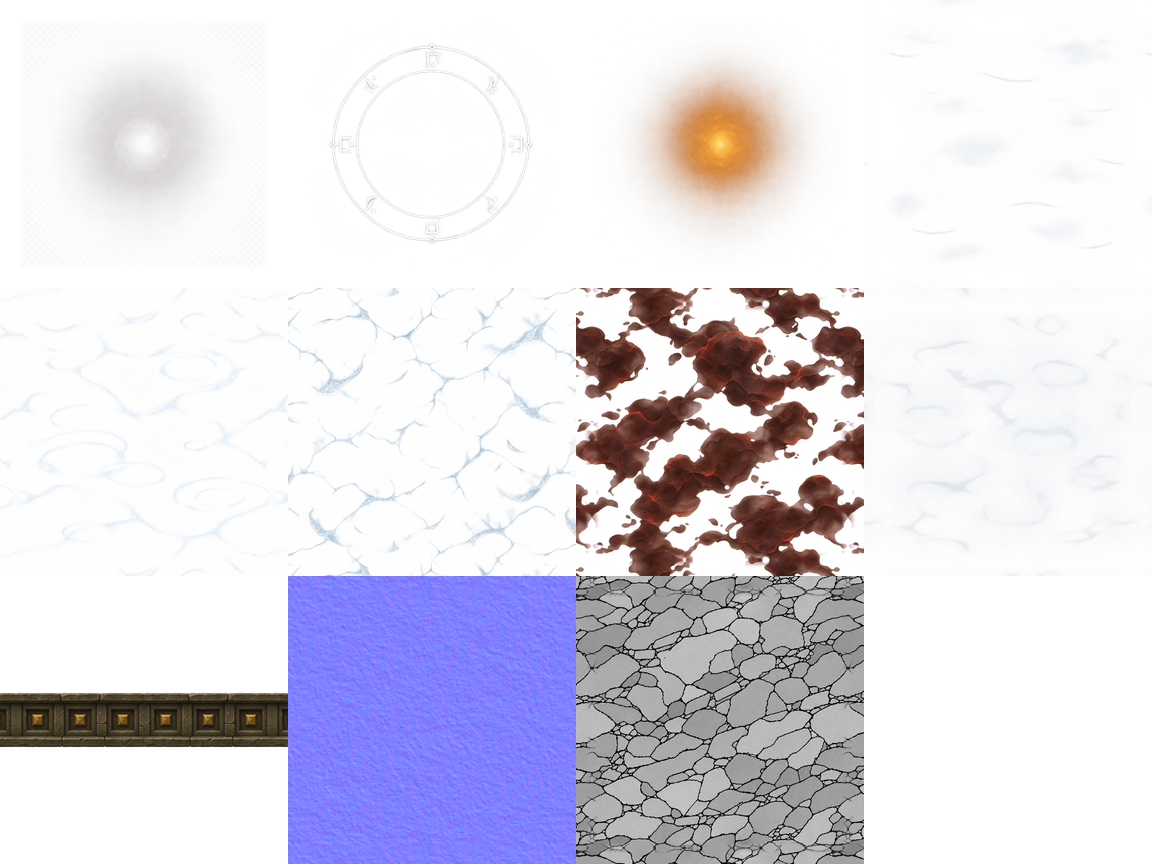
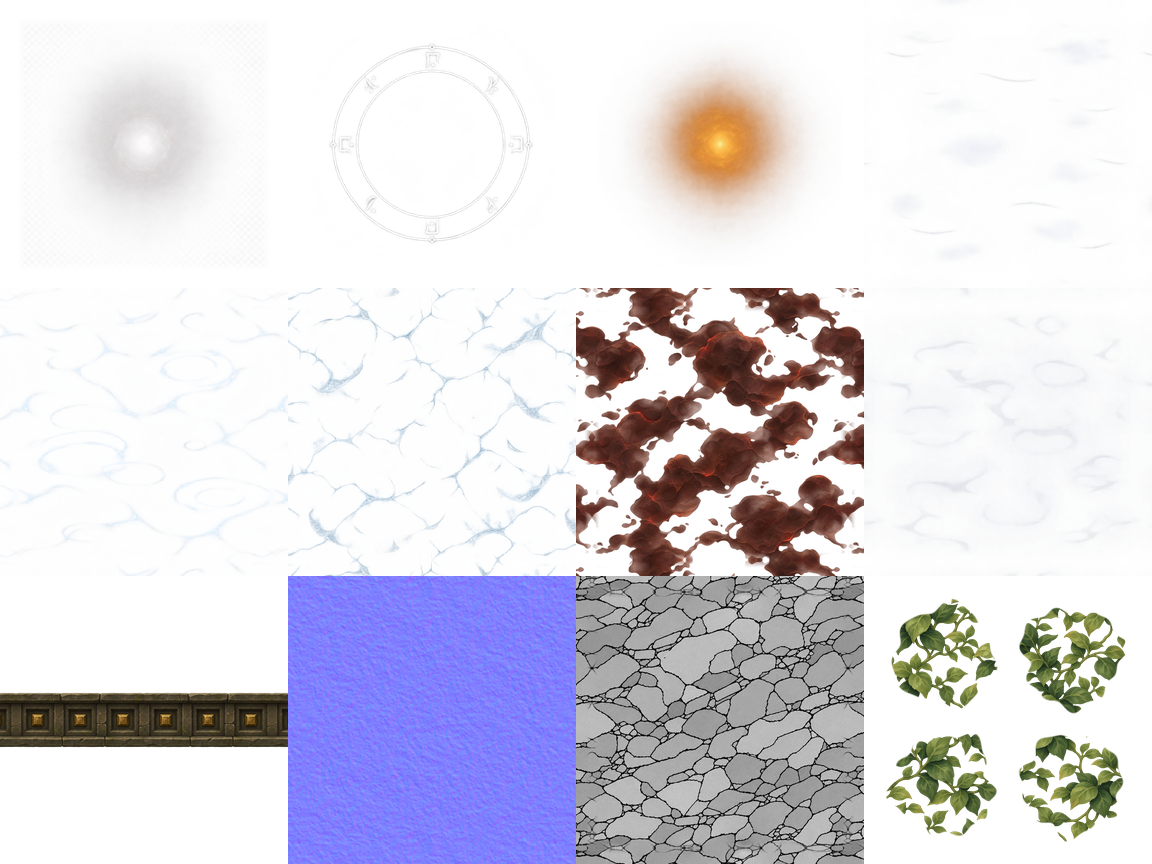
Trees: painted leaf cards in place of solid leaf balls
The saplings' leaf balls are now balls of cut-out foliage cards drawn from a new
painted leaf sheet (four round clumps in one effects tile), one draw call per
room; plain balls stand in until the art loads. Adds a guide for giving other
plants the look.

Claude-Session: https://claude.ai/code/session_01RV2LkTXFCZhmAifUhFqJWb

Changed region(s): [[0.75, 0.6875, 1.0, 0.9688]]

diff --git a/game/envartmap.js b/game/envartmap.js
@@ -1,2 +1,2 @@
 // Generated by tools/build-env-atlas.py: where each dungeon texture sits in its atlas sheet (game/art/environment/atlas/). Rectangles are [x, y, w, h] in pixels from the top left.
-const ENVART_MAP={"tile":256,"gutter":16,"sheets":{"area-hollows":{"file":"area-hollows.webp","size":[1152,864],"tiles":{"floor-0":[16,16,256,256],"floor-1":[304,16,256,256],"floor-2":[592,16,256,256],"wall-0":[880,16,256,256],"wall-1":[16,304,256,256],"wall-2":[304,304,256,256],"theme-overgrown":[592,304,256,256],"theme-fungus":[880,304,256,256],"theme-collapsed":[16,592,256,256],"theme-flooded":[304,592,256,256],"theme-library":[592,592,256,256]}},"area-hollows-n":{"file":"area-hollows-n.webp","size":[864,576],"tiles":{"theme-overgrown":[16,16,256,256],"theme-fungus":[304,16,256,256],"theme-collapsed":[592,16,256,256],"theme-flooded":[16,304,256,256],"theme-library":[304,304,256,256]}},"area-deeps":{"file":"area-deeps.webp","size":[1152,864],"tiles":{"floor-0":[16,16,256,256],"floor-1":[304,16,256,256],"floor-2":[592,16,256,256],"wall-0":[880,16,256,256],"wall-1":[16,304,256,256],"wall-2":[304,304,256,256],"theme-flooded":[592,304,256,256],"theme-crypt":[880,304,256,256],"theme-collapsed":[16,592,256,256],"theme-fungus":[304,592,256,256],"theme-bathhouse":[592,592,256,256],"theme-barracks":[880,592,256,256]}},"area-deeps-n":{"file":"area-deeps-n.webp","size":[864,576],"tiles":{"theme-flooded":[16,16,256,256],"theme-crypt":[304,16,256,256],"theme-collapsed":[592,16,256,256],"theme-fungus":[16,304,256,256],"theme-bathhouse":[304,304,256,256],"theme-barracks":[592,304,256,256]}},"area-vault":{"file":"area-vault.webp","size":[1152,864],"tiles":{"floor-0":[16,16,256,256],"floor-1":[304,16,256,256],"floor-2":[592,16,256,256],"wall-0":[880,16,256,256],"wall-1":[16,304,256,256],"wall-2":[304,304,256,256],"theme-armory":[592,304,256,256],"theme-library":[880,304,256,256],"theme-barracks":[16,592,256,256],"theme-bathhouse":[304,592,256,256],"theme-collapsed":[592,592,256,256]}},"area-vault-n":{"file":"area-vault-n.webp","size":[864,576],"tiles":{"theme-armory":[16,16,256,256],"theme-library":[304,16,256,256],"theme-barracks":[592,16,256,256],"theme-bathhouse":[16,304,256,256],"theme-collapsed":[304,304,256,256]}},"area-rifts":{"file":"area-rifts.webp","size":[1152,864],"tiles":{"floor-0":[16,16,256,256],"floor-1":[304,16,256,256],"floor-2":[592,16,256,256],"wall-0":[880,16,256,256],"wall-1":[16,304,256,256],"wall-2":[304,304,256,256],"theme-forge":[592,304,256,256],"theme-collapsed":[880,304,256,256],"theme-armory":[16,592,256,256],"theme-barracks":[304,592,256,256],"theme-fungus":[592,592,256,256],"rock-overlay":[880,592,256,256]}},"area-rifts-n":{"file":"area-rifts-n.webp","size":[864,576],"tiles":{"theme-forge":[16,16,256,256],"theme-collapsed":[304,16,256,256],"theme-armory":[592,16,256,256],"theme-barracks":[16,304,256,256],"theme-fungus":[304,304,256,256]}},"area-ruins":{"file":"area-ruins.webp","size":[1152,864],"tiles":{"floor-0":[16,16,256,256],"floor-1":[304,16,256,256],"floor-2":[592,16,256,256],"wall-0":[880,16,256,256],"wall-1":[16,304,256,256],"wall-2":[304,304,256,256],"theme-library":[592,304,256,256],"theme-bathhouse":[880,304,256,256],"theme-overgrown":[16,592,256,256],"theme-crypt":[304,592,256,256]}},"area-ruins-n":{"file":"area-ruins-n.webp","size":[864,576],"tiles":{"theme-library":[16,16,256,256],"theme-bathhouse":[304,16,256,256],"theme-overgrown":[592,16,256,256],"theme-crypt":[16,304,256,256]}},"area-abyss":{"file":"area-abyss.webp","size":[1152,864],"tiles":{"floor-0":[16,16,256,256],"floor-1":[304,16,256,256],"floor-2":[592,16,256,256],"wall-0":[880,16,256,256],"wall-1":[16,304,256,256],"wall-2":[304,304,256,256],"theme-crypt":[592,304,256,256],"theme-collapsed":[880,304,256,256],"theme-library":[16,592,256,256],"theme-forge":[304,592,256,256],"theme-fungus":[592,592,256,256]}},"area-abyss-n":{"file":"area-abyss-n.webp","size":[864,576],"tiles":{"theme-crypt":[16,16,256,256],"theme-collapsed":[304,16,256,256],"theme-library":[592,16,256,256],"theme-forge":[16,304,256,256],"theme-fungus":[304,304,256,256]}},"effects":{"file":"effects.webp","size":[1152,864],"tiles":{"glow":[16,16,256,256],"rune":[304,16,256,256],"lantern":[592,16,256,256],"ripples":[880,16,256,256],"pool-water":[16,304,256,256],"pool-ice":[304,304,256,256],"pool-lava":[592,304,256,256],"pool-black":[880,304,256,256],"trim-ruins":[16,592,256,256],"detail-normal":[304,592,256,256],"cell-noise":[592,592,256,256]}}},"themeArea":{"hollows":["overgrown","fungus","collapsed","flooded","library"],"deeps":["flooded","crypt","collapsed","fungus","bathhouse","barracks"],"vault":["armory","library","barracks","bathhouse","collapsed"],"rifts":["forge","collapsed","armory","barracks","fungus"],"ruins":["library","bathhouse","overgrown","crypt"],"abyss":["crypt","collapsed","library","forge","fungus"]}};
+const ENVART_MAP={"tile":256,"gutter":16,"sheets":{"area-hollows":{"file":"area-hollows.webp","size":[1152,864],"tiles":{"floor-0":[16,16,256,256],"floor-1":[304,16,256,256],"floor-2":[592,16,256,256],"wall-0":[880,16,256,256],"wall-1":[16,304,256,256],"wall-2":[304,304,256,256],"theme-overgrown":[592,304,256,256],"theme-fungus":[880,304,256,256],"theme-collapsed":[16,592,256,256],"theme-flooded":[304,592,256,256],"theme-library":[592,592,256,256]}},"area-hollows-n":{"file":"area-hollows-n.webp","size":[864,576],"tiles":{"theme-overgrown":[16,16,256,256],"theme-fungus":[304,16,256,256],"theme-collapsed":[592,16,256,256],"theme-flooded":[16,304,256,256],"theme-library":[304,304,256,256]}},"area-deeps":{"file":"area-deeps.webp","size":[1152,864],"tiles":{"floor-0":[16,16,256,256],"floor-1":[304,16,256,256],"floor-2":[592,16,256,256],"wall-0":[880,16,256,256],"wall-1":[16,304,256,256],"wall-2":[304,304,256,256],"theme-flooded":[592,304,256,256],"theme-crypt":[880,304,256,256],"theme-collapsed":[16,592,256,256],"theme-fungus":[304,592,256,256],"theme-bathhouse":[592,592,256,256],"theme-barracks":[880,592,256,256]}},"area-deeps-n":{"file":"area-deeps-n.webp","size":[864,576],"tiles":{"theme-flooded":[16,16,256,256],"theme-crypt":[304,16,256,256],"theme-collapsed":[592,16,256,256],"theme-fungus":[16,304,256,256],"theme-bathhouse":[304,304,256,256],"theme-barracks":[592,304,256,256]}},"area-vault":{"file":"area-vault.webp","size":[1152,864],"tiles":{"floor-0":[16,16,256,256],"floor-1":[304,16,256,256],"floor-2":[592,16,256,256],"wall-0":[880,16,256,256],"wall-1":[16,304,256,256],"wall-2":[304,304,256,256],"theme-armory":[592,304,256,256],"theme-library":[880,304,256,256],"theme-barracks":[16,592,256,256],"theme-bathhouse":[304,592,256,256],"theme-collapsed":[592,592,256,256]}},"area-vault-n":{"file":"area-vault-n.webp","size":[864,576],"tiles":{"theme-armory":[16,16,256,256],"theme-library":[304,16,256,256],"theme-barracks":[592,16,256,256],"theme-bathhouse":[16,304,256,256],"theme-collapsed":[304,304,256,256]}},"area-rifts":{"file":"area-rifts.webp","size":[1152,864],"tiles":{"floor-0":[16,16,256,256],"floor-1":[304,16,256,256],"floor-2":[592,16,256,256],"wall-0":[880,16,256,256],"wall-1":[16,304,256,256],"wall-2":[304,304,256,256],"theme-forge":[592,304,256,256],"theme-collapsed":[880,304,256,256],"theme-armory":[16,592,256,256],"theme-barracks":[304,592,256,256],"theme-fungus":[592,592,256,256],"rock-overlay":[880,592,256,256]}},"area-rifts-n":{"file":"area-rifts-n.webp","size":[864,576],"tiles":{"theme-forge":[16,16,256,256],"theme-collapsed":[304,16,256,256],"theme-armory":[592,16,256,256],"theme-barracks":[16,304,256,256],"theme-fungus":[304,304,256,256]}},"area-ruins":{"file":"area-ruins.webp","size":[1152,864],"tiles":{"floor-0":[16,16,256,256],"floor-1":[304,16,256,256],"floor-2":[592,16,256,256],"wall-0":[880,16,256,256],"wall-1":[16,304,256,256],"wall-2":[304,304,256,256],"theme-library":[592,304,256,256],"theme-bathhouse":[880,304,256,256],"theme-overgrown":[16,592,256,256],"theme-crypt":[304,592,256,256]}},"area-ruins-n":{"file":"area-ruins-n.webp","size":[864,576],"tiles":{"theme-library":[16,16,256,256],"theme-bathhouse":[304,16,256,256],"theme-overgrown":[592,16,256,256],"theme-crypt":[16,304,256,256]}},"area-abyss":{"file":"area-abyss.webp","size":[1152,864],"tiles":{"floor-0":[16,16,256,256],"floor-1":[304,16,256,256],"floor-2":[592,16,256,256],"wall-0":[880,16,256,256],"wall-1":[16,304,256,256],"wall-2":[304,304,256,256],"theme-crypt":[592,304,256,256],"theme-collapsed":[880,304,256,256],"theme-library":[16,592,256,256],"theme-forge":[304,592,256,256],"theme-fungus":[592,592,256,256]}},"area-abyss-n":{"file":"area-abyss-n.webp","size":[864,576],"tiles":{"theme-crypt":[16,16,256,256],"theme-collapsed":[304,16,256,256],"theme-library":[592,16,256,256],"theme-forge":[16,304,256,256],"theme-fungus":[304,304,256,256]}},"effects":{"file":"effects.webp","size":[1152,864],"tiles":{"glow":[16,16,256,256],"rune":[304,16,256,256],"lantern":[592,16,256,256],"ripples":[880,16,256,256],"pool-water":[16,304,256,256],"pool-ice":[304,304,256,256],"pool-lava":[592,304,256,256],"pool-black":[880,304,256,256],"trim-ruins":[16,592,256,256],"detail-normal":[304,592,256,256],"cell-noise":[592,592,256,256],"leaf-clumps":[880,592,256,256]}}},"themeArea":{"hollows":["overgrown","fungus","collapsed","flooded","library"],"deeps":["flooded","crypt","collapsed","fungus","bathhouse","barracks"],"vault":["armory","library","barracks","bathhouse","collapsed"],"rifts":["forge","collapsed","armory","barracks","fungus"],"ruins":["library","bathhouse","overgrown","crypt"],"abyss":["crypt","collapsed","library","forge","fungus"]}};

diff --git a/game/dungeongen.js b/game/dungeongen.js
@@ -344,6 +344,37 @@ function xLandmarks(grp,A,S,seed){ const R=caveRng(seed+509), tone=v=>new THREE.
     const g=new THREE.Group(); if(M.size()) g.add(M.build(xPhong({vertexColors:true}))); if(L.size()) g.add(L.build(new THREE.MeshBasicMaterial({vertexColors:true})));
     g.visible=false; grp.add(g); EX.decor.push({mesh:g,cells:[...seen],ph:R()*6}); } }
 
+/* Foliage cards: a ball of leaves drawn as a dozen small cut-out cards of the painted leaf clumps (envart.js 'leaf-clumps',
+   four clumps in one tile), set round the ball at different depths and facing out, so you see leaves and the gaps between
+   them, not a solid ball. Their normals point out from the ball's centre, so the clump is lit as one round mass, and the
+   cards deep inside are darker. All the cards of a room go into one mesh with one material: one draw call. */
+const XLEAF={cards:12};
+function xLeafMerger(){ const P=[], N=[], U=[], C=[];
+  return { P, N, U, C, size:()=>P.length,
+    build(){ const img=envArtFx('leaf-clumps'), g=new THREE.BufferGeometry(); g.setAttribute('position',new THREE.Float32BufferAttribute(P,3)); g.setAttribute('normal',new THREE.Float32BufferAttribute(N,3));
+      g.setAttribute('uv',new THREE.Float32BufferAttribute(U,2)); g.setAttribute('color',new THREE.Float32BufferAttribute(C,3));
+      const m=xDitherMat(xPhong({map:xLeafTex(img),vertexColors:true,alphaTest:.5,side:THREE.DoubleSide})); m.userData.noProj=1; return new THREE.Mesh(g,m); } }; }
+let XLEAF_TEX=null;
+function xLeafTex(img){ if(XLEAF_TEX&&XLEAF_TEX.image===img) return XLEAF_TEX; const t=new THREE.CanvasTexture(img); t.minFilter=THREE.LinearMipmapLinearFilter; t.anisotropy=4; return XLEAF_TEX=t; }
+// a ball of leaf cards round (cx,cy,cz), radius r, tinted by col; false if the leaf art is not in yet
+function xLeafCards(F,col,cx,cy,cz,r,R){ if(!F||!envArtFx('leaf-clumps')) return false;
+  const tint=new THREE.Color(col), mx=Math.max(tint.r,tint.g,tint.b,.01); tint.setRGB(tint.r/mx,tint.g/mx,tint.b/mx).lerp(new THREE.Color(1,1,1),.45);   // the area's leaf hue, kept bright
+  const n=XLEAF.cards, v=new THREE.Vector3(), d=new THREE.Vector3(), t1=new THREE.Vector3(), t2=new THREE.Vector3(), up=new THREE.Vector3(0,1,0), p=new THREE.Vector3(), q=new THREE.Vector3();
+  for(let k=0;k<n;k++){
+    // spread round the ball (a golden spiral, shaken), a little flattened, more on top than below
+    const yv=1-2*(k+.5)/n*.85, rr=Math.sqrt(Math.max(0,1-yv*yv)), a=k*2.39996+R()*.6;
+    d.set(Math.cos(a)*rr,yv*.8,Math.sin(a)*rr).normalize();
+    const depth=.25+R()*.6, s=r*(1.05+R()*.5), roll=R()*6.3;
+    p.set(cx,cy,cz).addScaledVector(d,r*depth);
+    t1.crossVectors(Math.abs(d.y)>.95?new THREE.Vector3(1,0,0):up,d).normalize(); t2.crossVectors(d,t1);
+    const cr=Math.cos(roll), sr=Math.sin(roll); q.copy(t1).multiplyScalar(cr).addScaledVector(t2,sr); t2.multiplyScalar(cr).addScaledVector(t1,-sr); t1.copy(q);
+    const qd=R()*4|0, u0=(qd&1)*.5, v0=(qd>>1)*.5, fl=R()<.5;
+    const shade=.5+.5*depth+.12*d.y, c=tint.clone().multiplyScalar(Math.min(1.15,shade));
+    const corner=(su,sv)=>{ q.copy(p).addScaledVector(t1,su*s/2).addScaledVector(t2,sv*s/2); F.P.push(q.x,q.y,q.z);
+      v.subVectors(q,new THREE.Vector3(cx,cy,cz)).normalize().lerp(d,.4).normalize(); F.N.push(v.x,v.y,v.z);
+      F.U.push(u0+((fl?-su:su)*.5+.5)*.5, v0+(sv*.5+.5)*.5); F.C.push(c.r,c.g,c.b); };
+    for(const [su,sv] of [[-1,-1],[1,-1],[1,1],[-1,-1],[1,1],[-1,1]]) corner(su,sv); }
+  return true; }
 /* The clutter, drawn (x2Clutter): one merged mesh per room (or gallery piece), shown once any of its cells is seen.
    Ruins are cut from the area's own stone: light ones from its upper tones with dull gold trim, dark ones from its lower
    tones with the area's glow in their cracks. A fire pillar's
@@ -353,7 +384,7 @@ function xClutter(grp,A,S,seed){ EX.fireL=new Map(); if(!EX.marks) return; const
     // the area's own stone: light ruins from its upper tones, dark ones from its lower, so they sit with the walls and floor
     const ST=tone(D?.3:.56), SH=tone(D?.18:.42), LT=tone(D?.42:.68), TRIM=D?glow.clone().multiplyScalar(.55):new THREE.Color('#b08a44').lerp(tone(.5),.45);
     const ROCK=tone(.42), ROCK2=tone(.28), ROCK3=tone(.58), SOIL=new THREE.Color('#2b2117'), LEAF=new THREE.Color(S.moss||'#4f7a3a'), LEAF2=LEAF.clone().lerp(new THREE.Color('#1e3a1a'),.45), FLOW=[0xd9465a,0xf2c94c,0xb48cff,0xf0f0e0];
-    const M=xMerger(), L=xMerger(), seen=new Set();
+    const M=xMerger(), L=xMerger(), F=xLeafMerger(), seen=new Set();
     for(const it of mk.items){ const R=caveRng(it.sd*7+seed), cs=it.cells, mx=cs.reduce((a,c)=>a+xcx(c),0)/cs.length, my=cs.reduce((a,c)=>a+xcy(c),0)/cs.length, x=(mx+.5)*XCS, z=(my+.5)*XCS;
       for(const c of cs){ seen.add(c); for(const n of [c-1,c+1,c-XN,c+XN]) seen.add(n); }
       const B=(col,bx,by,bz,sx,sy,sz,ry,to)=>(to||M).add(XG.box,col,bx,by,bz,0,ry||0,0,sx,sy,sz), C=(col,bx,by,bz,r,h,to)=>(to||M).add(XG.cyl,col,bx,by,bz,0,0,0,r*2,h,r*2);
@@ -385,11 +416,12 @@ function xClutter(grp,A,S,seed){ EX.fireL=new Map(); if(!EX.marks) return; const
         for(let k=0;k<n;k++){ const sz=(big?2.2:1.5)*(k?.55+R()*.35:1); rock(k%2?ROCK2:ROCK,x+(R()-.5)*(big?2:.8),sz*.32,z+(R()-.5)*(big?2:.8),sz); }
         if(R()<.5) M.add(XG.ball,LEAF2,x+(R()-.5),.15,z+(R()-.5),0,0,0,.9,.15,.7); }   // moss at its foot
       else if(it.k==='rubble'){ for(let k=0;k<6;k++) rock(R()<.5?ROCK:ROCK3,x+(R()-.5)*1.6,.06,z+(R()-.5)*1.6,.18+R()*.25); }
-      else xClutterThemed(it,x,z,R,B,C,rock,M,L,grp,{ST,SH,LT,TRIM,ROCK,ROCK2,SOIL,LEAF,LEAF2,FLOW,D,glow,along,len}); }
+      else xClutterThemed(it,x,z,R,B,C,rock,M,L,grp,{ST,SH,LT,TRIM,ROCK,ROCK2,SOIL,LEAF,LEAF2,FLOW,D,glow,along,len,F}); }
     const g=new THREE.Group(); if(M.size()) g.add(M.build(xDitherMat(xPhong({vertexColors:true})))); if(L.size()) g.add(L.build(new THREE.MeshBasicMaterial({vertexColors:true})));
+    if(F.size()) g.add(F.build());
     g.visible=false; grp.add(g); EX.decor.push({mesh:g,cells:[...seen],ph:0}); } }
 // the themed rooms' pieces (x2Themes): drawn from boxes, cylinders, cones and balls like the rest of the clutter
-function xClutterThemed(it,x,z,R,B,C,rock,M,L,grp,P){ const {ST,SH,LT,TRIM,ROCK,ROCK2,SOIL,LEAF,LEAF2,FLOW,D,glow,along,len}=P, cs=it.cells;
+function xClutterThemed(it,x,z,R,B,C,rock,M,L,grp,P){ const {ST,SH,LT,TRIM,ROCK,ROCK2,SOIL,LEAF,LEAF2,FLOW,D,glow,along,len,F}=P, cs=it.cells;
   const col=h=>new THREE.Color(h), WOOD=col('#6e4a2a'), WOOD2=col('#4a3018'), IRON=col('#2e2c2a'), IRON2=col('#55524e'), BONE=col('#d8d0b8'), WATER=col('#1f4f5e'), WATER2=col('#3f8c9a'), CLOTH=[col('#7a2a24'),col('#2a4a6a'),col('#3a5a2a'),col('#5a2a5a')];
   const ry=it.v?Math.PI/2:0, lx=it.v?XCS*.7:len-.35, lz=it.v?len-.35:XCS*.7;   // a two-cell piece's footprint, along its cells
   const A=(u,v)=>[x+along[0]*u+(it.v?v:0)*1, z+along[1]*u+(it.v?0:v)];      // u along the piece, v across it
@@ -402,7 +434,8 @@ function xClutterThemed(it,x,z,R,B,C,rock,M,L,grp,P){ const {ST,SH,LT,TRIM,ROCK,
     case 'cratestack': { const s1=.95; B(col('#8a6034'),x,s1/2,z,s1,s1,s1,R()*.3); B(WOOD2,x,s1/2,z,s1*1.03,.1,s1*1.03);
       B(col('#8a6034'),x+(R()-.5)*.2,s1+.36,z+(R()-.5)*.2,.7,.7,.7,R()*.8); if(R()<.6){ M.add(XG.cyl,WOOD,x+.75,.42,z+.3,0,0,0,.6,.84,.6); M.add(XG.cyl,IRON,x+.75,.18,z+.3,0,0,0,.62,.06,.62); } break; }
     case 'sapling': { B(SOIL,x,.06,z,1.2,.12,1.2); M.add(XG.cyl,col('#4a3420'),x,1.1,z,0,0,(R()-.5)*.15,.22,2.2,.22);
-      for(let k=0;k<7;k++){ const a=R()*6.3, d=R()*.7, s2=.7+R()*.5; M.add(XG.ball,R()<.5?LEAF:LEAF2,x+Math.cos(a)*d,2.1+R()*.8,z+Math.sin(a)*d,0,R()*3,0,s2,s2*.8,s2); }
+      for(let k=0;k<7;k++){ const a=R()*6.3, d=R()*.7, s2=.7+R()*.5, lc=R()<.5?LEAF:LEAF2, bx=x+Math.cos(a)*d, by=2.1+R()*.8, bz=z+Math.sin(a)*d;
+        if(!xLeafCards(F,lc,bx,by,bz,s2*.62,R)) M.add(XG.ball,lc,bx,by,bz,0,R()*3,0,s2,s2*.8,s2); }   // painted leaf cards (or, before the art is in, a plain ball)
       for(let k=0;k<3;k++){ const a=R()*6.3; M.add(XG.cyl,col('#4a3420'),x+Math.cos(a)*.45,.08,z+Math.sin(a)*.45,Math.PI/2,a,0,.08,.7,.08); } break; }
     case 'urnbig': { const c=R()<.5?col('#9a5a34'):col('#7a6a5a'); B(SH,x,.12,z,1.1,.24,1.1); M.add(XG.ball,c,x,.85,z,0,0,0,1.05,1.25,1.05); M.add(XG.cyl,c,x,1.55,z,0,0,0,.45,.3,.45);
       M.add(XG.cyl,c.clone().multiplyScalar(.7),x,1.72,z,0,0,0,.6,.08,.6); if(D) B(TRIM,x,.9,z,1.08,.06,1.08,0,L); break; }

diff --git a/game/envart.js b/game/envart.js
@@ -50,7 +50,7 @@ function envArtTheme(th,A){ const id=A&&A.id; return dress(tile('area-'+id,'them
 function envArtOverlay(A){ return A&&A.id==='rifts'?tile('area-rifts','rock-overlay'):null; }
 // an effect, cut out of the effects sheet into a canvas of its own (256 x 256), or null
 const CUT=new Map();
-function envArtFx(name){ if(CUT.has(name)) return CUT.get(name); if(!known()||!ready('effects')){ if(known()&&STATE.get('effects')!=='fail') load('effects'); return null; }
+function envArtFx(name){ if(CUT.has(name)) return CUT.get(name); if(!known()||!ready('effects')){ if(known()&&STATE.get('effects')!=='fail'){ load('effects'); missing=true; } return null; }
   const S=ENVART_MAP.sheets.effects, t=S.tiles[name]; if(!t) return null; const c=document.createElement('canvas'); c.width=t[2]; c.height=t[3];
   c.getContext('2d').drawImage(IMG.get('effects'),t[0],t[1],t[2],t[3],0,0,t[2],t[3]); CUT.set(name,c); return c; }
 // one GPU texture per sheet, shared by every material that samples it: clamped (the shader wraps inside the tile),

diff --git a/tools/build-env-atlas.py b/tools/build-env-atlas.py
@@ -12,7 +12,7 @@ look.js xAtlasShader):
                            Ember Rifts, the medium-rock overlay
   atlas/area-<id>-n.webp   the matching theme floors' normal maps (linear data, lossless)
   atlas/effects.webp       the small effect textures (glows, rune ring, ripples, pool surfaces, trim, detail normal,
-                           cell noise); the game cuts these back out, as they scroll, tile or draw as sprites
+                           cell noise, the trees' leaf clumps); the game cuts these back out, as they scroll, tile or draw as sprites
 
 Every tile sits in a cell with a 16-pixel gutter: repeating textures fill it with their own wrapped edge (so the
 filtering and the first four mip levels at a tile's edge read the tile itself, not its neighbour), sprites with
@@ -59,6 +59,39 @@ EFFECTS = {
     "detail-normal": ("shared-effects/detail-normal.png", "wrap"),
     "cell-noise": ("shared-detail/deeps-rock-cell-noise.png", "wrap"),
 }
+# the leaves (shared-foliage/leaves.png, a tiling sheet of painted leaves with cut-out gaps): four round clumps cut from
+# it, two by two in one tile, for the trees' foliage cards (dungeongen.js xLeafCards)
+LEAVES = "shared-foliage/leaves.png"
+
+
+def leaf_clumps():
+    """Four 128 x 128 clumps in one 256 tile: each a 512 crop of the leaves, its edge eaten by a ragged round mask (so a
+    card never shows a straight edge), its alpha made crisp for alpha testing, and its colour carried out under the
+    clear pixels (the filtering and mip levels would otherwise pull the painting's stray fringe colours into the edges)."""
+    src = np.asarray(Image.open(SRC / LEAVES).convert("RGBA")).astype(np.float32) / 255
+    rng = np.random.default_rng(7)
+    out = np.zeros((TILE, TILE, 4), np.float32)
+    h = TILE // 2
+    for q, (ox, oy) in enumerate([(40, 60), (470, 90), (90, 480), (500, 470)]):
+        a = src[oy:oy + 512, ox:ox + 512].copy()
+        yy, xx = np.mgrid[0:512, 0:512] / 511 * 2 - 1
+        ang = np.arctan2(yy, xx)
+        rag = .82 + sum(rng.uniform(.02, .06) * np.sin(k * ang + rng.uniform(0, 6.3)) for k in (3, 5, 7, 11))
+        a[..., 3] *= np.clip((rag - np.hypot(xx, yy)) / .08, 0, 1)
+        a[..., 3] = np.clip((a[..., 3] - .35) / .3, 0, 1)
+        im = Image.fromarray((a * 255).astype(np.uint8), "RGBA")
+        pm = np.asarray(im.resize((h, h), Image.LANCZOS, reducing_gap=None)).astype(np.float32) / 255
+        out[(q // 2) * h:(q // 2 + 1) * h, (q % 2) * h:(q % 2 + 1) * h] = pm
+    # colour under the clear pixels: the mean of the leaf colour round about
+    col, al = out[..., :3] * out[..., 3:], out[..., 3:]
+    def blur(x, r=6, n=3):   # a box blur three times over (near enough a gaussian), wrapping
+        for _ in range(n):
+            for ax in (0, 1):
+                x = sum(np.roll(x, d, ax) for d in range(-r, r + 1)) / (2 * r + 1)
+        return x
+    fill = blur(col) / (blur(al) + 1e-4)
+    out[..., :3] = np.where(al > .5, out[..., :3], fill)
+    return Image.fromarray((np.clip(out, 0, 1) * 255).astype(np.uint8), "RGBA")
 
 
 def tile(path, mode="RGBA"):
@@ -103,6 +136,7 @@ def main():
         normals = [("theme-" + th, tile(f"theme-normals/{THEME_FILE[th]}-normal.png", "RGB"), True) for th in THEME_AREA[a]]
         sheets[f"area-{a}-n"] = build(f"area-{a}-n.webp", normals, "RGB", True, cols=3)
     fx = [(k, tile(p), m == "wrap") for k, (p, m) in EFFECTS.items()]
+    fx.append(("leaf-clumps", leaf_clumps(), False))
     sheets["effects"] = build("effects.webp", fx, "RGBA", True)
     meta = {"tile": TILE, "gutter": GUT, "sheets": sheets, "themeArea": THEME_AREA}
     MAP_JS.write_text("// Generated by tools/build-env-atlas.py: where each dungeon texture sits in its atlas sheet "

diff --git a/docs/art-production/foliage-cards.md b/docs/art-production/foliage-cards.md
@@ -1,0 +1,75 @@
+# Foliage cards: a guide for giving more plants the painted-leaf look
+
+This guide is for Claude, or anyone else, extending the leaf-card look from the trees to the rest of the dungeon's plants.
+
+## What exists now
+
+The **saplings** use the look. They are the trees in Overgrown rooms (`dungeongen.js`, `xClutterThemed`, case `'sapling'`). Each of a sapling's seven leaf balls is drawn as a ball of foliage cards instead of a solid sphere.
+
+- **The art.** `game/art/environment/painterly-512/shared-foliage/leaves.png` is a tiling sheet of painted leaves with cut-out gaps. `tools/build-env-atlas.py` (`leaf_clumps()`) cuts four round, ragged-edged clumps from it, two by two, into one 256 px tile, `leaf-clumps`, in `atlas/effects.webp`. The build also:
+  - makes the alpha crisp for alpha testing;
+  - carries the leaf colour out under the clear pixels, so filtering and mips don't pull in the painting's bright fringe colours.
+- **The cards.** `xLeafCards(F, colour, cx, cy, cz, r, R)` adds `XLEAF.cards` (12) cards round a ball:
+  - Each card is a quad holding one of the four clumps, chosen at random, sometimes mirrored, with a random roll.
+  - The cards sit on a golden spiral at 25–85% of the radius, facing out.
+  - Their normals point out from the ball's centre and lean toward the card's own facing, so the clump is lit as one round mass.
+  - Cards deeper in, and on the underside, are darker.
+  - The colour is the area's leaf colour, normalised to full brightness and mixed 45% toward white, then multiplied over the painted green.
+- **One draw call.** `xLeafMerger()` (F) collects every card of a room's clutter. `build()` makes one mesh with one material: `xDitherMat(xPhong({map, vertexColors, alphaTest:.5, side:DoubleSide}))`. The material has `userData.noProj=1`, so `surface.js` doesn't lay its pixel-art material atlas over it. A whole room's trees are a single draw call.
+- **Fallback.** `xLeafCards` returns `false` while the effects sheet is still loading, and the caller then draws the old plain ball. `envArtFx` marks the build as missing art, so the scene is built again once the sheet arrives (`envArtArrived`).
+
+## Recipe: giving another plant the look
+
+1. **Find where it's drawn.** Almost all plants are `M.add(XG.ball | XG.cone, LEAF or LEAF2, …)` calls in `dungeongen.js`. Search for `LEAF`, `LEAF2`, `XG.ball` and `XG.cone`. The candidates:
+
+   | Piece | Where | Today | Suggested treatment |
+   |---|---|---|---|
+   | Planter shrubs | `xClutter`, `it.k==='planter'` | 10–16 balls and cones | Leaf balls: `xLeafCards` with `r ≈ s2*.6`. Keep the flowers as balls. |
+   | Boulder moss | `xClutter`, boulder `R()<.5` | Flat ball at the foot | Ground cover (below). |
+   | Reeds | `xClutterThemed`, `'reeds'` | Thin cones | Leave as cones, or make crossed upright cards with a separate reed tile. Don't use the leaf clumps. |
+   | Roots | `xClutterThemed`, `'roots'` | Cylinders and a flat ball | Ground cover for the flat ball only. |
+   | Wall vines | `explore.js` (search `vine`) | Hanging strands | Hanging cards (below). These need a vine strip tile, not round clumps. |
+
+2. **Make sure the room's merger F reaches the code.** In `xClutter` it's a local. In `xClutterThemed` it's in `P` (`P.F`). Code elsewhere (furniture in `explore.js`, `nature.js`) needs its own `xLeafMerger()`, built and added to the same group that holds that code's `M` mesh, so it shows and hides with it.
+
+3. **Replace the ball and keep the fallback:**
+   ```js
+   if(!xLeafCards(F,lc,bx,by,bz,radius,R)) M.add(XG.ball,lc,bx,by,bz,0,R()*3,0,sx,sy,sz);
+   ```
+   Pass the ball's radius, which is about half its scale. A squashed ball (sy < sx) looks fine as a round card ball with a slightly smaller radius. For a strongly flat shape, use ground cover.
+
+4. **Keep the RNG order stable if you can.** `R()` is the room's seeded stream. `xLeafCards` draws from it, so the clutter after it on the same floor changes position. That's harmless, because the layout doesn't depend on clutter dressing, but don't be surprised when the before and after pictures differ elsewhere in the room.
+
+## Variants to build when needed
+
+- **Ground cover (moss, leaf litter).** Lay 5–8 cards nearly flat: facing up, tilted no more than about 20°, at a height of 0.02–0.08, spread over the patch. Use normals straight up. Add an `xLeafCards` option, for example `{flat:true}`, rather than a second function.
+- **Hanging vines.** Use a tall, narrow tile of a vine strand, cut by a new function in `build-env-atlas.py` the way `leaf_clumps()` is. Place cards flat against the wall, facing out, top at the wall's crown, with normals out from the wall.
+- **Other leaf colours.** Fungus and the darker areas tint with `LEAF` from the area's `S.moss`. Autumn, ash or crystal leaves only need another colour passed in. The texture stays the same.
+- **Mushroom caps** (`bigcap`, the `caps` walk piece) are not foliage. Leave them out.
+
+## Adding a new foliage texture
+
+1. Put the master in `game/art/environment/painterly-512/shared-foliage/`. A tiling sheet with real alpha gaps works best.
+2. Add a cutter next to `leaf_clumps()` in `tools/build-env-atlas.py` and append its tile to `fx` under a new name. Keep the three steps:
+   - a ragged mask, so no card shows a straight edge;
+   - an alpha threshold;
+   - colour carried under the clear pixels.
+3. Run `python3 tools/build-env-atlas.py`. It rewrites the sheets and `game/envartmap.js`.
+4. Read it with `envArtFx('<name>')`. For a new card kind, give `xLeafMerger` a texture name parameter. One material per texture means one extra draw call per room for each texture used.
+
+## Tuning knobs
+
+- `XLEAF.cards`: cards per ball. The default is 12. Use 8 for small shrubs and 16 for big canopies.
+- Card size, `s=r*(1.05+R()*.5)` in `xLeafCards`: bigger cards mean bigger leaves on screen and a looser silhouette.
+- Depth range, `.25+R()*.6`: lower means a denser core, higher means a fluffier edge with more gaps.
+- `alphaTest:.5`: lower makes leaves fatter, higher makes them thinner with more gaps.
+
+## Checking your work
+
+Take a close picture in the area with the most foliage. The Gilded Ruins at depth 18, world seed 4260, is the one used for the trees. Check:
+
+- no straight card edges;
+- no bright green or yellow halos at leaf edges;
+- leaves don't swim with the wood-grain atlas: if they do, `noProj` is missing;
+- the clump is darker underneath;
+- the fallback ball shows if the effects sheet fails to load.
